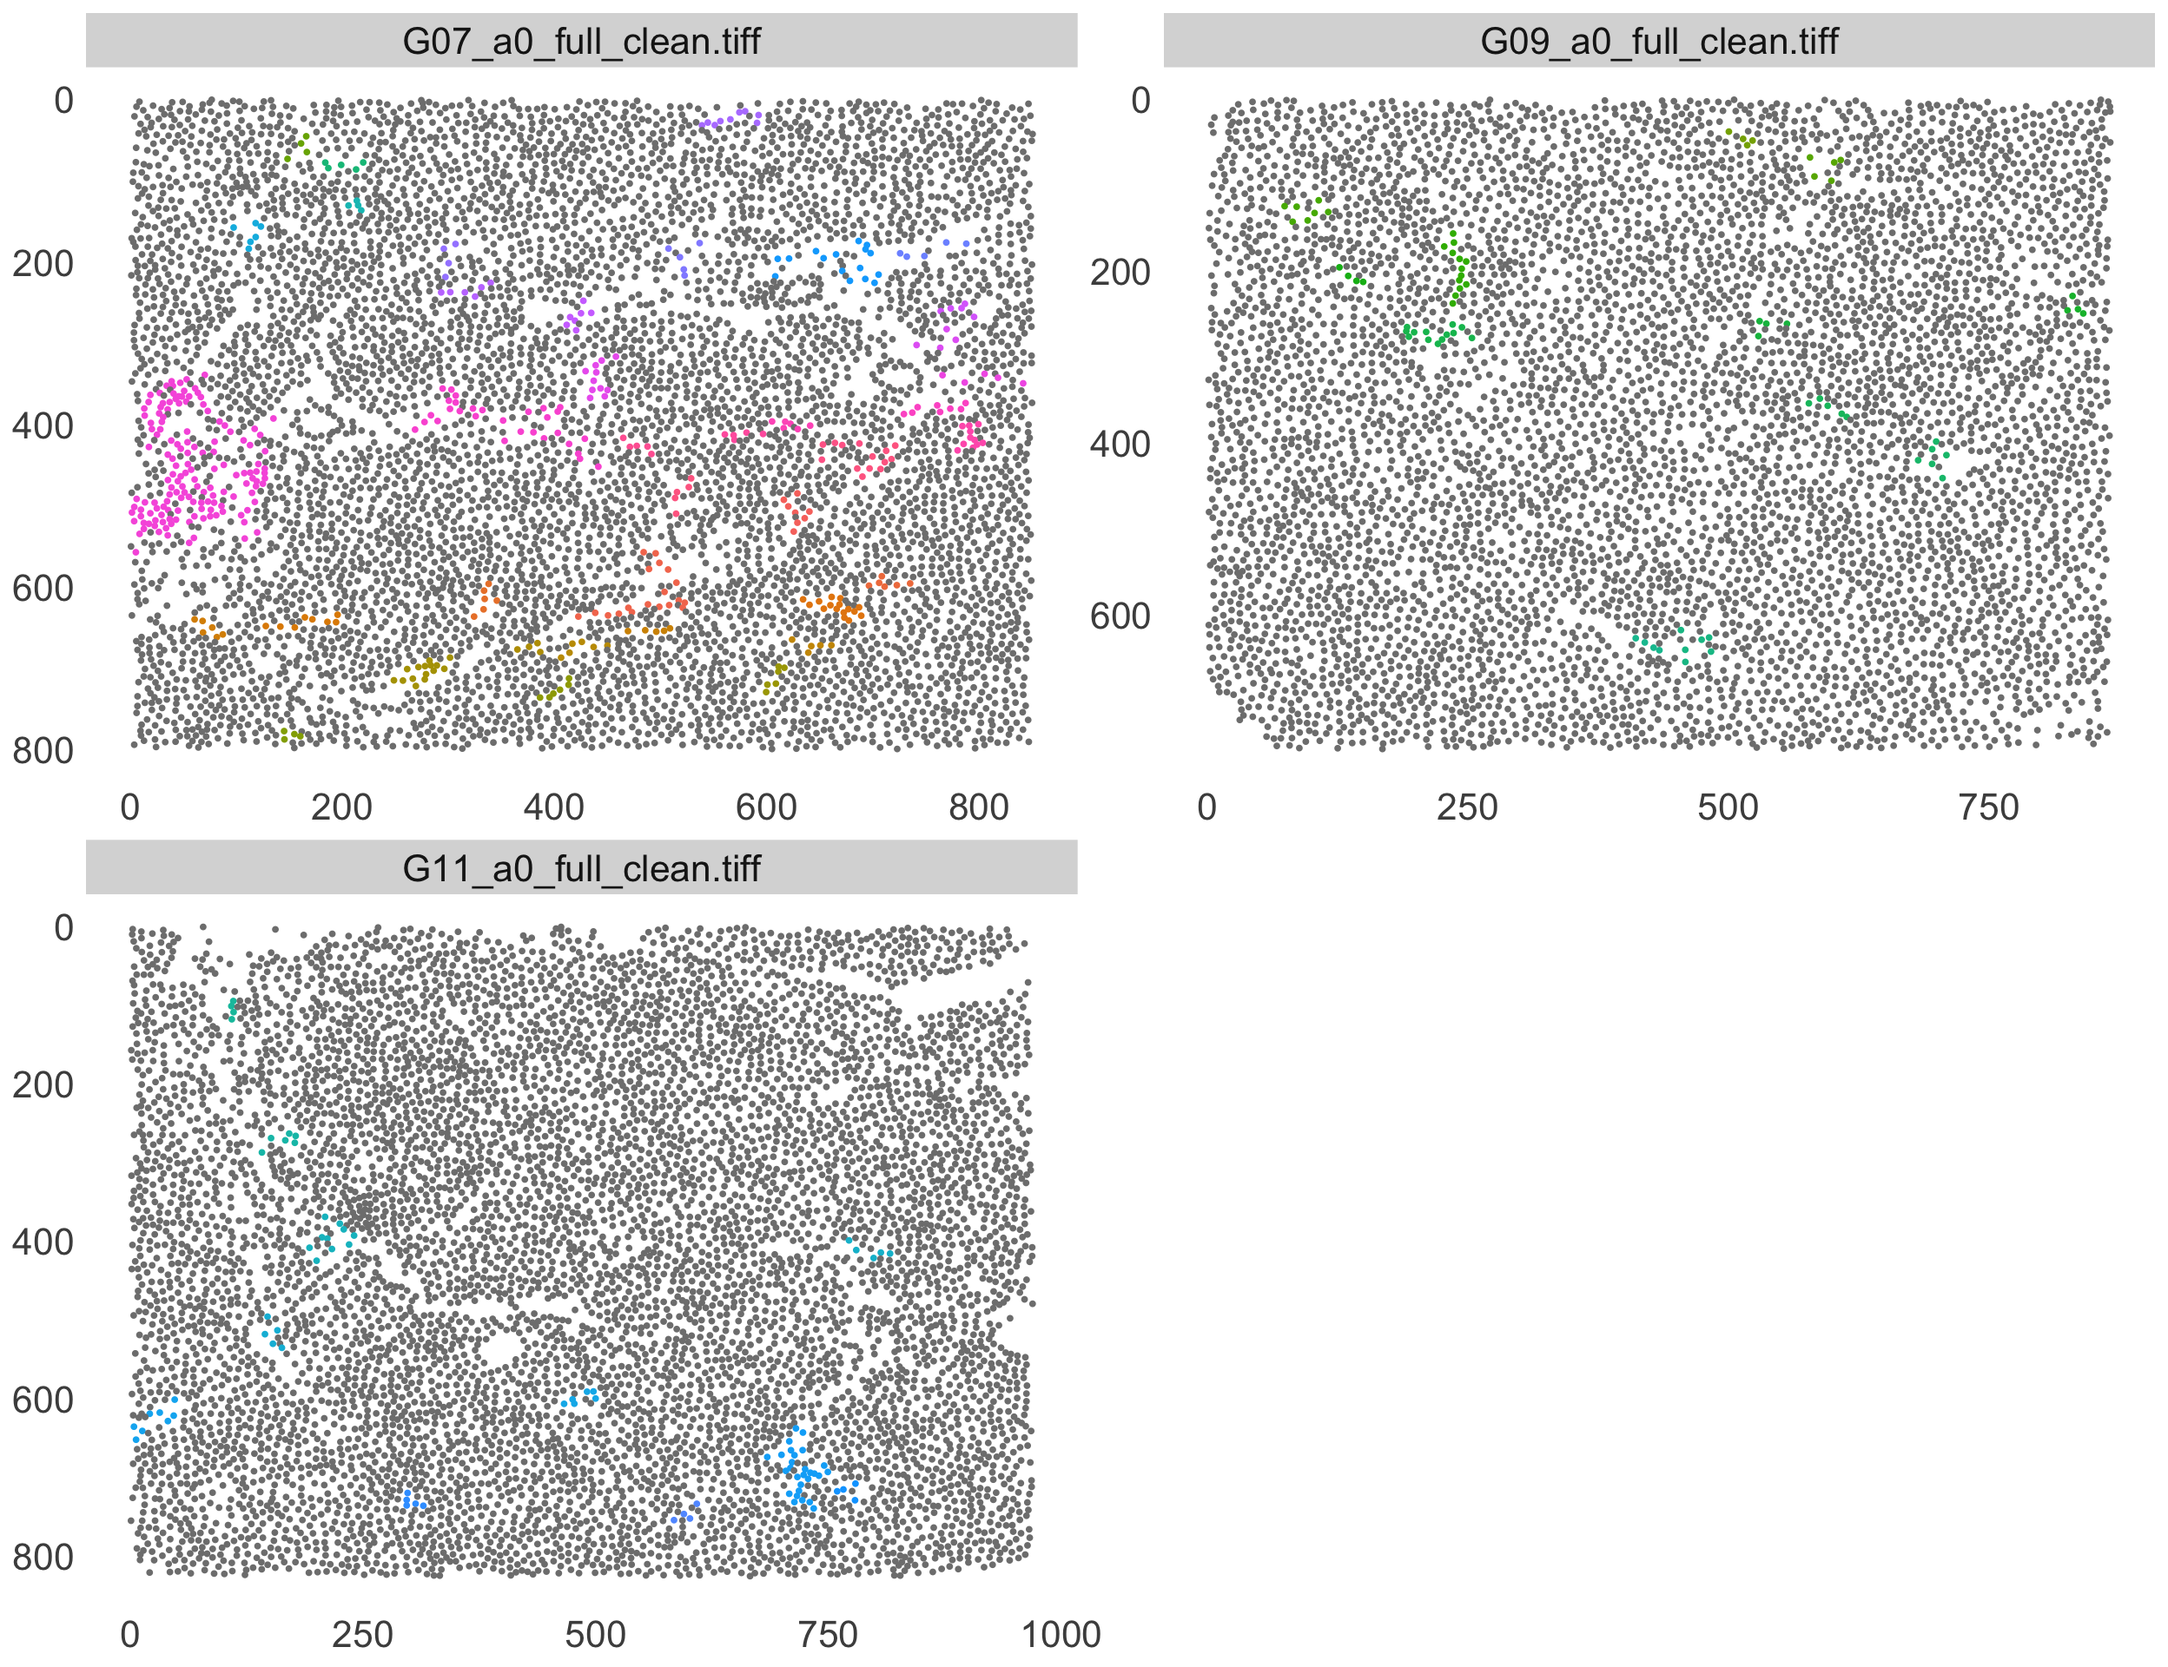
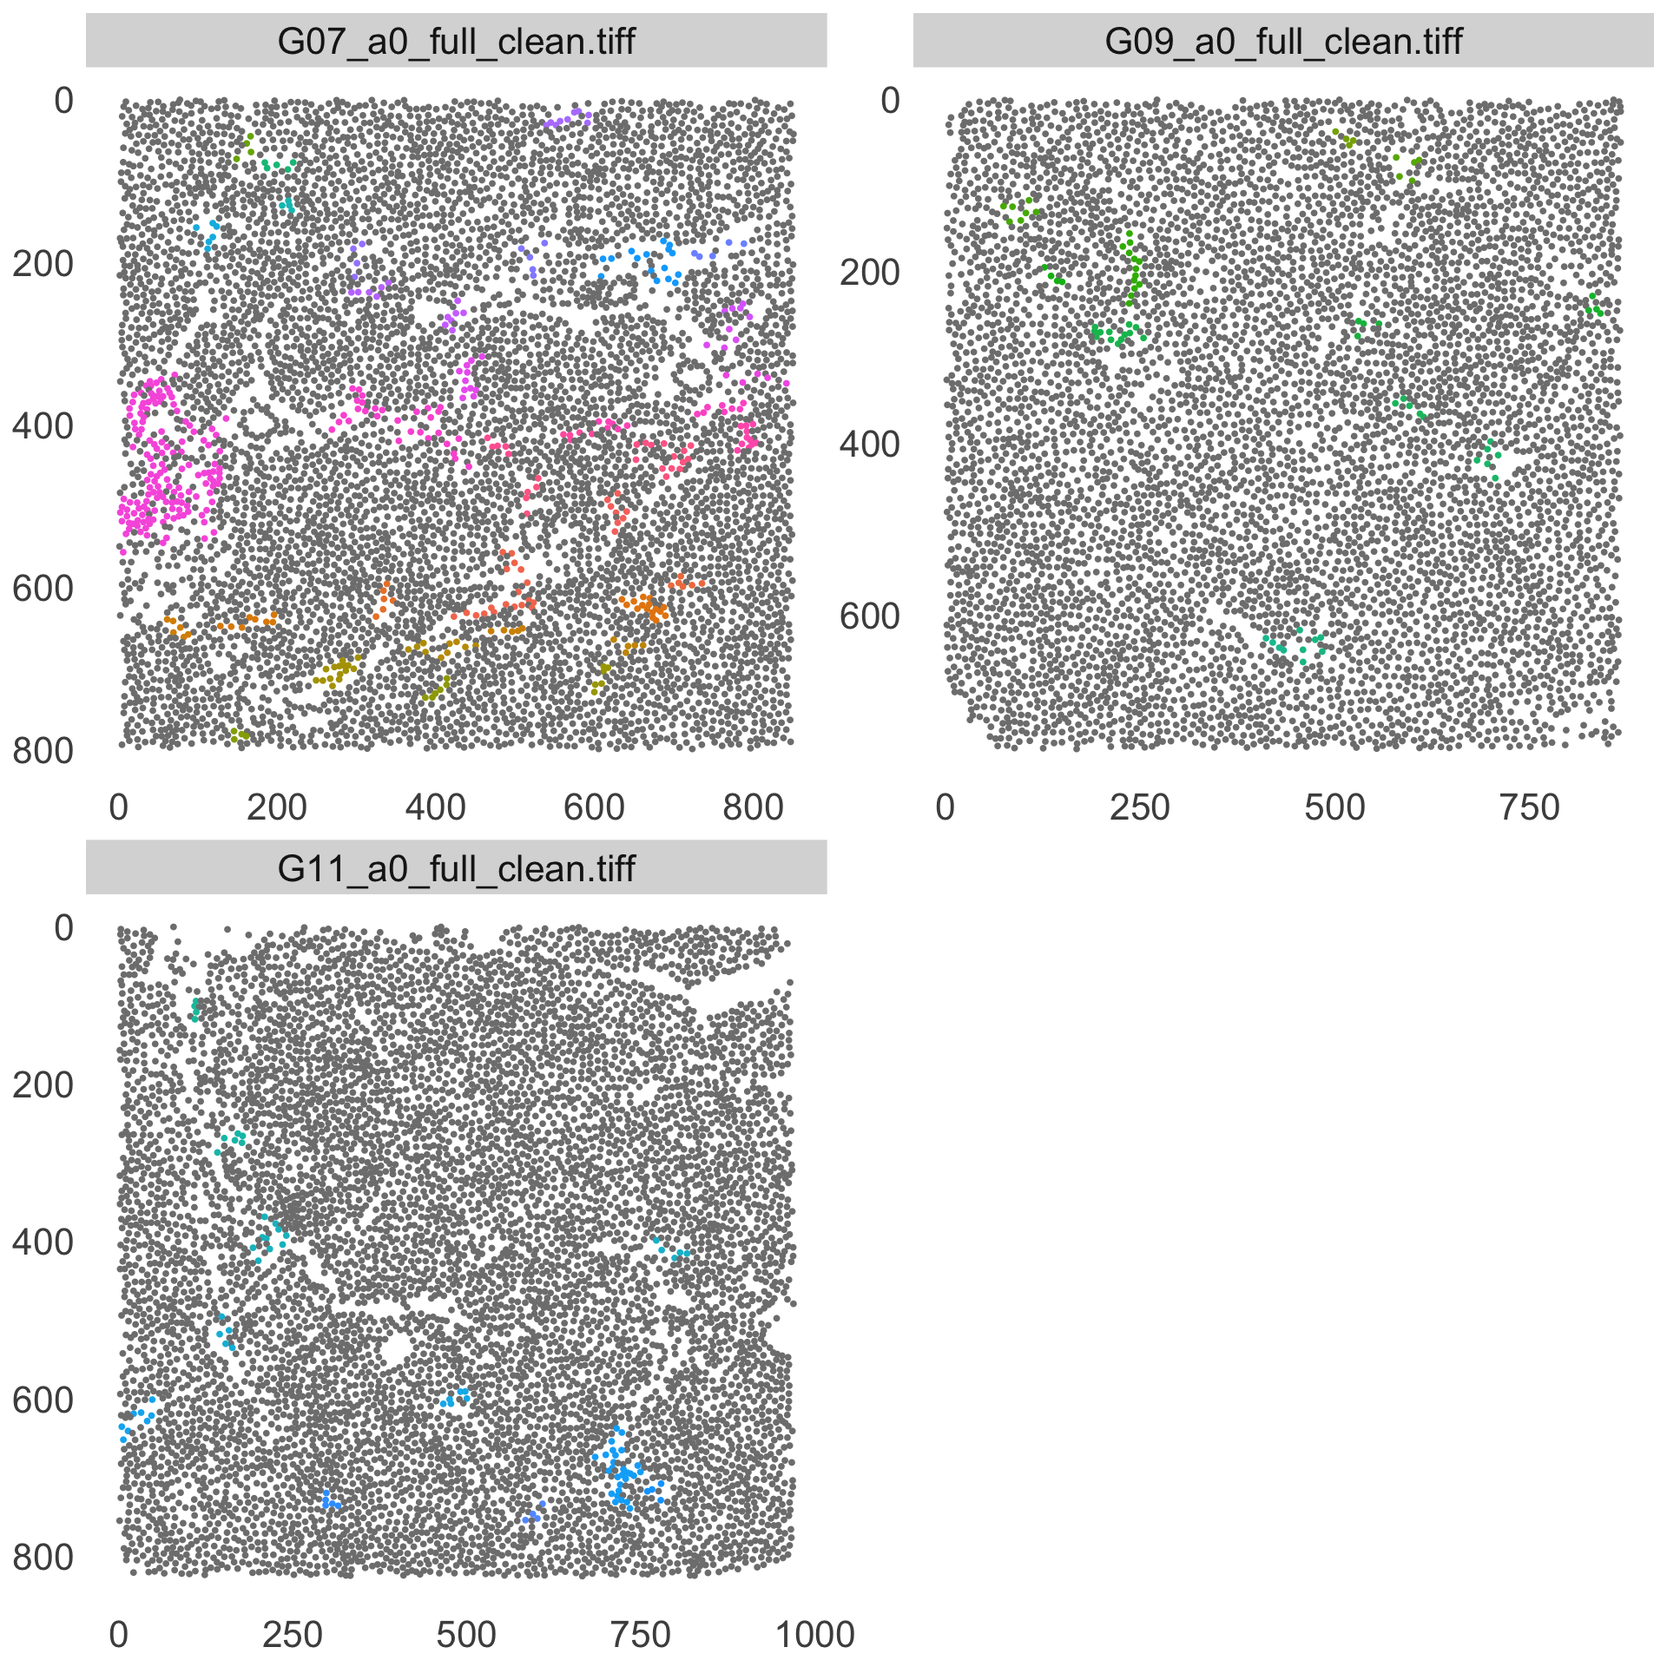
Final compile of spatial analysis

diff --git a/docs/spatial_analysis.html b/docs/spatial_analysis.html
@@ -465,16 +465,16 @@ This reproducible <a href="http://rmarkdown.rstudio.com">R Markdown</a> analysis
 <div class="panel panel-default">
 <div class="panel-heading">
 <p class="panel-title">
-<a data-toggle="collapse" data-parent="#workflowr-checks" href="#strongRepositoryversionstrongahrefhttpsgithubcomBodenmillerGroupIMCDataAnalysistree3878351a3b34683d07866b2d5c6b7a739e781368targetblank3878351a"> <span class="glyphicon glyphicon-ok text-success" aria-hidden="true"></span> <strong>Repository version:</strong> <a href="https://github.com/BodenmillerGroup/IMCDataAnalysis/tree/3878351a3b34683d07866b2d5c6b7a739e781368" target="_blank">3878351</a> </a>
+<a data-toggle="collapse" data-parent="#workflowr-checks" href="#strongRepositoryversionstrongahrefhttpsgithubcomBodenmillerGroupIMCDataAnalysistreee6dd3880853c9395c16f44a77c390fdd4c0842catargetblanke6dd388a"> <span class="glyphicon glyphicon-ok text-success" aria-hidden="true"></span> <strong>Repository version:</strong> <a href="https://github.com/BodenmillerGroup/IMCDataAnalysis/tree/e6dd3880853c9395c16f44a77c390fdd4c0842ca" target="_blank">e6dd388</a> </a>
 </p>
 </div>
[2 lines of base64/hex data omitted]
 <div class="panel-body">
 <p>
 Great! You are using Git for version control. Tracking code development and connecting the code version to the results is critical for reproducibility.
 </p>
 <p>
-The results in this page were generated with repository version <a href="https://github.com/BodenmillerGroup/IMCDataAnalysis/tree/3878351a3b34683d07866b2d5c6b7a739e781368" target="_blank">3878351</a>. See the <em>Past versions</em> tab to see a history of the changes made to the R Markdown and HTML files.
+The results in this page were generated with repository version <a href="https://github.com/BodenmillerGroup/IMCDataAnalysis/tree/e6dd3880853c9395c16f44a77c390fdd4c0842ca" target="_blank">e6dd388</a>. See the <em>Past versions</em> tab to see a history of the changes made to the R Markdown and HTML files.
 </p>
 <p>
 Note that you need to be careful to ensure that all relevant files for the analysis have been committed to Git prior to generating the results (you can use <code>wflow_publish</code> or <code>wflow_git_commit</code>). workflowr only checks the R Markdown file, but you know if there are other scripts or data files that it depends on. Below is the status of the Git repository when the results were generated:
@@ -485,6 +485,9 @@ Ignored files:
     Ignored:    .Rproj.user/
     Ignored:    analysis/.DS_Store
     Ignored:    data/
+
+Untracked files:
+    Untracked:  analysis/figure/
 
 Unstaged changes:
     Modified:   analysis/spatial_analysis.Rmd
@@ -526,6 +529,40 @@ Message
 </tr>
 </thead>
 <tbody>
+<tr>
+<td>
+Rmd
+</td>
+<td>
+<a href="https://github.com/BodenmillerGroup/IMCDataAnalysis/blob/e6dd3880853c9395c16f44a77c390fdd4c0842ca/analysis/spatial_analysis.Rmd" target="_blank">e6dd388</a>
+</td>
+<td>
+nilseling
+</td>
+<td>
+2021-10-13
+</td>
+<td>
+Final changes to analysis scripts
+</td>
+</tr>
+<tr>
+<td>
+html
+</td>
+<td>
+<a href="https://rawcdn.githack.com/BodenmillerGroup/IMCDataAnalysis/e6dd3880853c9395c16f44a77c390fdd4c0842ca/docs/spatial_analysis.html" target="_blank">e6dd388</a>
+</td>
+<td>
+nilseling
+</td>
+<td>
+2021-10-13
+</td>
+<td>
+Final changes to analysis scripts
+</td>
+</tr>
 <tr>
 <td>
 Rmd
@@ -640,6 +677,43 @@ sce$clustered_neighborhood &lt;- as.character(cur_res$cluster)
 pheatmap(proportions(x = table(sce$clustered_neighborhood, sce$CellType), 
                      margin = 2))</code></pre>
 <p><img src="figure/spatial_analysis.Rmd/cluster-cells-1.png" width="672" style="display: block; margin: auto;" /></p>
+<p>
+<button type="button" class="btn btn-default btn-xs btn-workflowr btn-workflowr-fig" data-toggle="collapse" data-target="#fig-cluster-cells-1">
+Past versions of cluster-cells-1.png
+</button>
+</p>
+<div id="fig-cluster-cells-1" class="collapse">
+<div class="table-responsive">
+<table class="table table-condensed table-hover">
+<thead>
+<tr>
+<th>
+Version
+</th>
+<th>
+Author
+</th>
+<th>
+Date
+</th>
+</tr>
+</thead>
+<tbody>
+<tr>
+<td>
+<a href="https://github.com/BodenmillerGroup/IMCDataAnalysis/blob/e6dd3880853c9395c16f44a77c390fdd4c0842ca/docs/figure/spatial_analysis.Rmd/cluster-cells-1.png" target="_blank">e6dd388</a>
+</td>
+<td>
+nilseling
+</td>
+<td>
+2021-10-13
+</td>
+</tr>
+</tbody>
+</table>
+</div>
+</div>
 <p>And visualize the patches on the tissue.</p>
 <pre class="r"><code>col_vector &lt;- unique(sce$clustered_neighborhood)
 names(col_vector) &lt;- col_vector
@@ -662,8 +736,45 @@ cur_images &lt;- sce[,sce$ImageFullName %in% c(&quot;G11_a0_full_clean.tiff&quot
 plotSpatial(cur_images, img_id = &quot;ImageFullName&quot;, 
             node_color_by = &quot;clustered_neighborhood&quot;, node_size_fix = 0.7)  +
   theme(text = element_text(size=20)) + 
-  scale_color_manual(values = col_vector)</code></pre>
+  scale_color_manual(values = col_vector, name = &quot;clust&quot;)</code></pre>
 <p><img src="figure/spatial_analysis.Rmd/visualize-patches,%20-1.png" width="1248" style="display: block; margin: auto;" /></p>
+<p>
+<button type="button" class="btn btn-default btn-xs btn-workflowr btn-workflowr-fig" data-toggle="collapse" data-target="#fig-no-spaces-visualize-patches,--1">
+Past versions of “visualize-patches, -1.png”
+</button>
+</p>
+<div id="fig-no-spaces-visualize-patches,--1" class="collapse">
+<div class="table-responsive">
+<table class="table table-condensed table-hover">
+<thead>
+<tr>
+<th>
+Version
+</th>
+<th>
+Author
+</th>
+<th>
+Date
+</th>
+</tr>
+</thead>
+<tbody>
+<tr>
+<td>
+<a href="https://github.com/BodenmillerGroup/IMCDataAnalysis/blob/e6dd3880853c9395c16f44a77c390fdd4c0842ca/docs/figure/spatial_analysis.Rmd/visualize-patches, -1.png" target="_blank">e6dd388</a>
+</td>
+<td>
+nilseling
+</td>
+<td>
+2021-10-13
+</td>
+</tr>
+</tbody>
+</table>
+</div>
+</div>
 </div>
 <div id="patch-detection" class="section level2">
 <h2>Patch detection</h2>
@@ -683,6 +794,43 @@ plotSpatial(cur_images, img_id = &quot;ImageFullName&quot;,
   theme(text = element_text(size=20),
         legend.position = &quot;none&quot;) </code></pre>
 <p><img src="figure/spatial_analysis.Rmd/patch-detection-islet-1.png" width="960" style="display: block; margin: auto;" /></p>
+<p>
+<button type="button" class="btn btn-default btn-xs btn-workflowr btn-workflowr-fig" data-toggle="collapse" data-target="#fig-patch-detection-islet-1">
+Past versions of patch-detection-islet-1.png
+</button>
+</p>
+<div id="fig-patch-detection-islet-1" class="collapse">
+<div class="table-responsive">
+<table class="table table-condensed table-hover">
+<thead>
+<tr>
+<th>
+Version
+</th>
+<th>
+Author
+</th>
+<th>
+Date
+</th>
+</tr>
+</thead>
+<tbody>
+<tr>
+<td>
+<a href="https://github.com/BodenmillerGroup/IMCDataAnalysis/blob/e6dd3880853c9395c16f44a77c390fdd4c0842ca/docs/figure/spatial_analysis.Rmd/patch-detection-islet-1.png" target="_blank">e6dd388</a>
+</td>
+<td>
+nilseling
+</td>
+<td>
+2021-10-13
+</td>
+</tr>
+</tbody>
+</table>
+</div>
+</div>
 <p>Next, we will detect aggregations of immune cells.</p>
 <pre class="r"><code>cur_images &lt;- patchDetection(cur_images, 
                       patch_cells = cur_images$CellType %in% c(&quot;otherimmune&quot;, &quot;Tc&quot;, 
@@ -696,7 +844,44 @@ plotSpatial(cur_images, img_id = &quot;ImageFullName&quot;,
             node_color_by = &quot;immune&quot;, node_size_fix = 0.7)  +
   theme(text = element_text(size=20),
         legend.position = &quot;none&quot;)</code></pre>
-<p><img src="figure/spatial_analysis.Rmd/patch-detection-immune-1.png" width="1248" style="display: block; margin: auto;" /></p>
+<p><img src="figure/spatial_analysis.Rmd/patch-detection-immune-1.png" width="960" style="display: block; margin: auto;" /></p>
+<p>
+<button type="button" class="btn btn-default btn-xs btn-workflowr btn-workflowr-fig" data-toggle="collapse" data-target="#fig-patch-detection-immune-1">
+Past versions of patch-detection-immune-1.png
+</button>
+</p>
+<div id="fig-patch-detection-immune-1" class="collapse">
+<div class="table-responsive">
+<table class="table table-condensed table-hover">
+<thead>
+<tr>
+<th>
+Version
+</th>
+<th>
+Author
+</th>
+<th>
+Date
+</th>
+</tr>
+</thead>
+<tbody>
+<tr>
+<td>
+<a href="https://github.com/BodenmillerGroup/IMCDataAnalysis/blob/e6dd3880853c9395c16f44a77c390fdd4c0842ca/docs/figure/spatial_analysis.Rmd/patch-detection-immune-1.png" target="_blank">e6dd388</a>
+</td>
+<td>
+nilseling
+</td>
+<td>
+2021-10-13
+</td>
+</tr>
+</tbody>
+</table>
+</div>
+</div>
 </div>
 <div id="spatial-interaction-testing" class="section level2">
 <h2>Spatial interaction testing</h2>
@@ -721,12 +906,50 @@ ggplot(cur_df) +
     geom_text(aes(from_label, to_label, label = ifelse(sigval == 1 | sigval == -1, &quot;*&quot;, &quot;&quot;), 
                   color = as.character(sigval)), size = 5) +
     facet_wrap(~ group_by) + 
-    scale_fill_gradientn(colours = inferno(100)) +
-    scale_colour_manual(values = c(&quot;1&quot; = &quot;green&quot;, &quot;-1&quot; = &quot;red&quot;, &quot;0&quot; = &quot;black&quot;))  +
+    scale_fill_gradientn(colours = viridis(100), name = &quot;count&quot;) +
+    scale_colour_manual(values = c(&quot;1&quot; = &quot;green&quot;, &quot;-1&quot; = &quot;red&quot;, &quot;0&quot; = &quot;black&quot;), 
+                        labels = c(&quot;interaction&quot;, &quot;avoidance&quot;, &quot;none&quot;), name = &quot;sig&quot;)  +
     theme(panel.background = element_blank(), axis.text.x = element_text(angle = 45, hjust = 1),
-          text = element_text(size=20))</code></pre>
+          text = element_text(size=18))</code></pre>
 <pre><code>Warning: Removed 30 rows containing missing values (geom_text).</code></pre>
 <p><img src="figure/spatial_analysis.Rmd/test-interactions-1.png" width="1440" style="display: block; margin: auto;" /></p>
+<p>
+<button type="button" class="btn btn-default btn-xs btn-workflowr btn-workflowr-fig" data-toggle="collapse" data-target="#fig-test-interactions-1">
+Past versions of test-interactions-1.png
+</button>
+</p>
+<div id="fig-test-interactions-1" class="collapse">
+<div class="table-responsive">
+<table class="table table-condensed table-hover">
+<thead>
+<tr>
+<th>
+Version
+</th>
+<th>
+Author
+</th>
+<th>
+Date
+</th>
+</tr>
+</thead>
+<tbody>
+<tr>
+<td>
+<a href="https://github.com/BodenmillerGroup/IMCDataAnalysis/blob/e6dd3880853c9395c16f44a77c390fdd4c0842ca/docs/figure/spatial_analysis.Rmd/test-interactions-1.png" target="_blank">e6dd388</a>
+</td>
+<td>
+nilseling
+</td>
+<td>
+2021-10-13
+</td>
+</tr>
+</tbody>
+</table>
+</div>
+</div>
 <br>
 <p>
 <button type="button" class="btn btn-default btn-workflowr btn-workflowr-sessioninfo" data-toggle="collapse" data-target="#workflowr-sessioninfo" style="display: block;">
